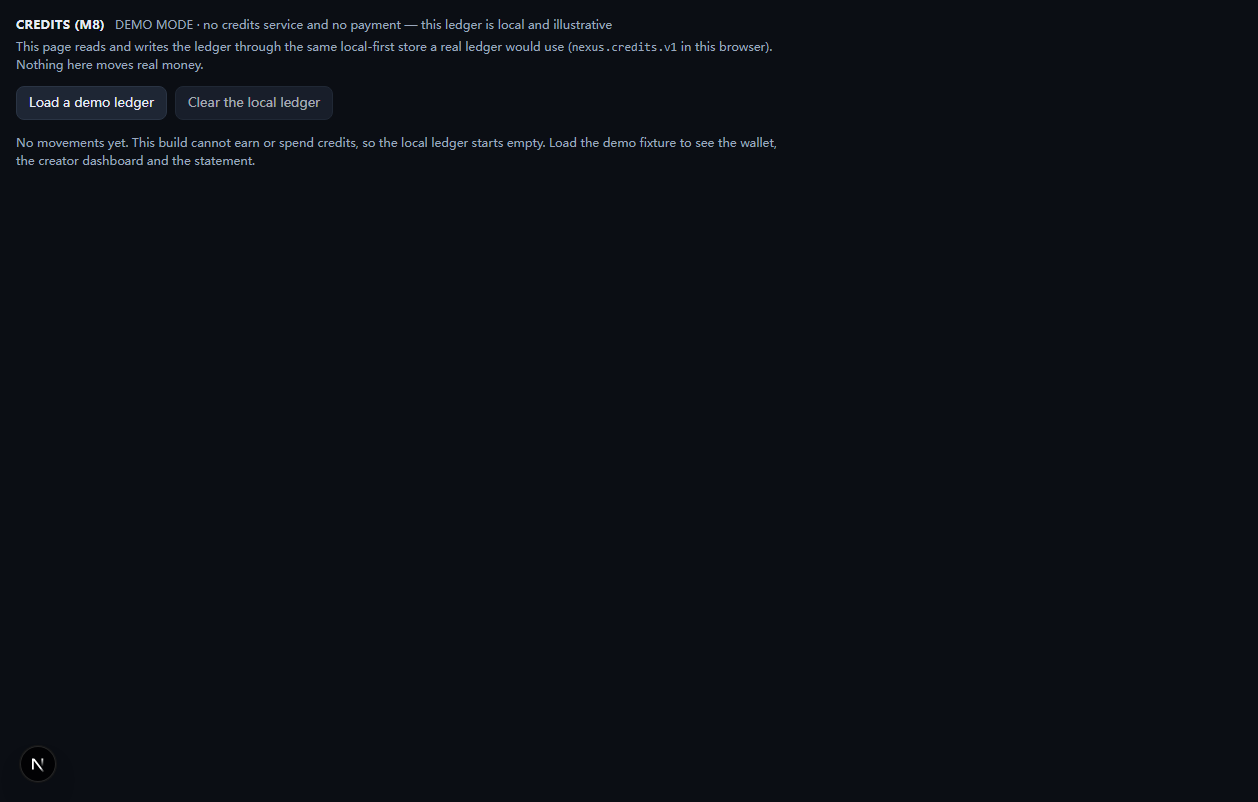
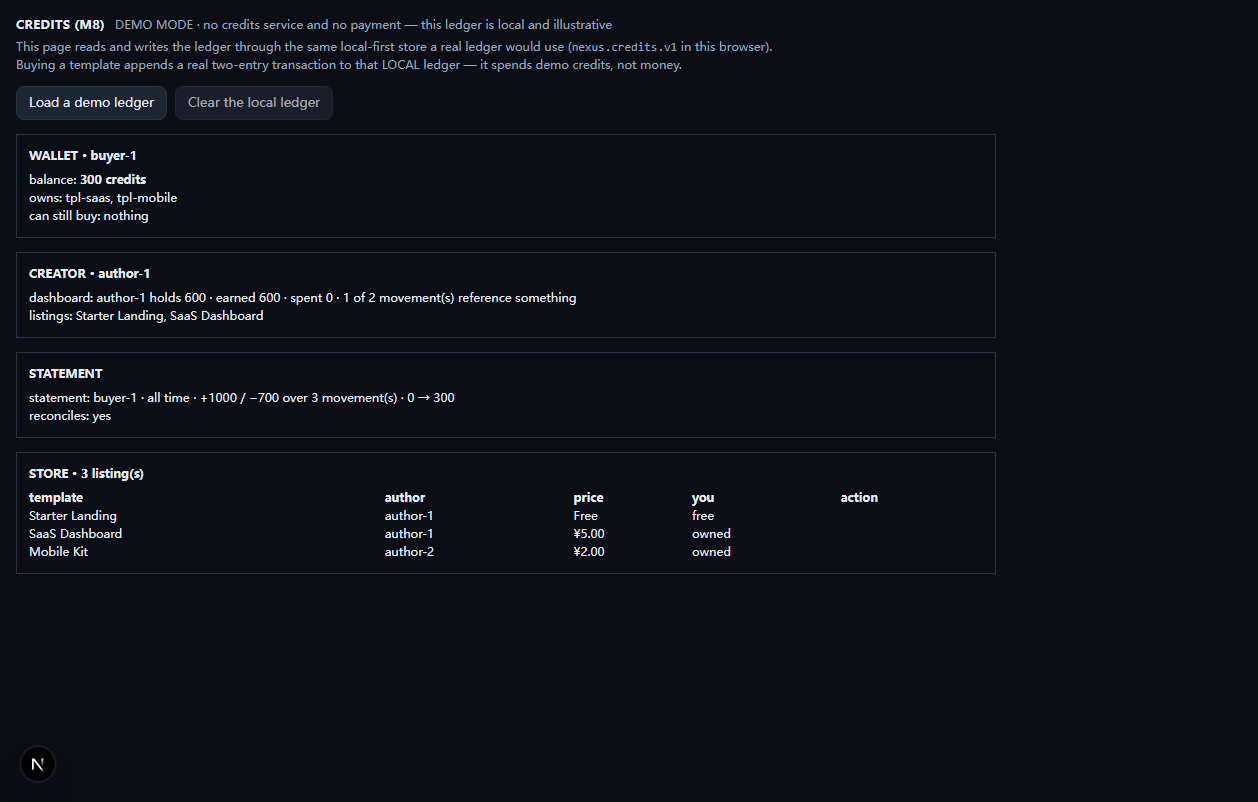
feat(m8): the /credits store becomes INTERACTIVE — a real buy on the local ledger
The surface could display a demo ledger but not act on it. Buying a template now calls the REAL marketplace: it appends the buyer's debit and the author's credit atomically, persists the result through creditsStore, and the wallet/store re-derive from the new ledger. The Buy button appears only for a paid listing the viewer does not already own and can afford — the model allows a double purchase (ADR 0019 bound), but the panel should not suggest one.

Also fixes the wallet line to say 'can still buy' (affordability MINUS owned) instead of 'affordable now', which listed an item the viewer had just bought.

Harness: 14/14 checks (was 11) — adds buy (500 -> 300, owns both, button gone) and asserts the POST-purchase state survives a reload. Screenshot retaken on the populated surface.

diff --git a/apps/studio/src/components/CreditsPanel.tsx b/apps/studio/src/components/CreditsPanel.tsx
@@ -5,8 +5,10 @@ import { buildCreatorDashboard, creatorDashboardLine } from '@/lib/creatorDashbo
 import type { CreditLedger } from '@/lib/credits';
 import { buildDemoCreditsScene } from '@/lib/creditsDemo';
 import { loadCredits, saveCredits } from '@/lib/creditsStore';
+import { purchaseTemplate } from '@/lib/marketplace';
 import { priceText, type PriceCents } from '@/lib/monetization';
 import { statementFor, statementLine, statementReconciles } from '@/lib/settlement';
+import type { TemplateListing } from '@/lib/templateCatalog';
 import { buildWalletView } from '@/lib/walletView';
 
 /**
@@ -64,7 +66,34 @@ export default function CreditsPanel() {
     }
   }, []);
 
+  /**
+   * BUY one listing: the REAL marketplace transaction on the LOCAL ledger. It appends the buyer's debit
+   * and the author's credit atomically, then persists the result through `creditsStore`. This spends
+   * DEMO credits, not money — the surface says so on its face — but the arithmetic, the atomicity and
+   * the persistence are the ones the rest of the model enforces.
+   */
+  const onBuy = useCallback((listing: TemplateListing) => {
+    if (!ledger) return;
+    const decision = purchaseTemplate(scene.catalog, ledger, {
+      templateId: listing.id,
+      buyerId: scene.viewerId,
+      // The HOST supplies the instant and the idempotency key (ADR 0010); a timestamp keeps a second
+      // purchase in a later session from colliding with this one.
+      entryId: `demo-buy-${listing.id}-${Date.now()}`,
+      at: Date.now(),
+    });
+    if (!decision.ok) { setError(decision.reason); return; }
+    const saved = saveCredits(window.localStorage, decision.ledger);
+    if (!saved.ok) { setError(saved.reason); return; }
+    setLedger(decision.ledger);
+    setError(null);
+  }, [ledger, scene]);
+
   const wallet = ledger ? buildWalletView(scene.catalog, ledger, scene.viewerId) : null;
+  // "Still to buy" = the marketplace's affordability gate MINUS what is already owned. The model
+  // deliberately lets an owned listing stay affordable (ADR 0019's bound), so the panel does the
+  // subtraction rather than inviting a second purchase of one item.
+  const stillToBuy = wallet ? wallet.affordableTemplateIds.filter((id) => !wallet.ownedTemplateIds.includes(id)) : [];
   const creator = ledger ? buildCreatorDashboard(scene.catalog, ledger, scene.creatorId) : null;
   const statement = ledger ? statementFor(ledger, scene.viewerId) : null;
   const reconciles = ledger && statement ? statementReconciles(ledger, statement) : false;
@@ -84,7 +113,8 @@ export default function CreditsPanel() {
       </div>
       <div style={{ color: 'var(--nexus-muted)', marginBottom: 12, maxWidth: 780 }}>
         This page reads and writes the ledger through the same local-first store a real ledger would use
-        (<code>nexus.credits.v1</code> in this browser). Nothing here moves real money.
+        (<code>nexus.credits.v1</code> in this browser). Buying a template appends a real two-entry
+        transaction to that LOCAL ledger — it spends demo credits, not money.
       </div>
 
       {error && (
@@ -116,7 +146,7 @@ export default function CreditsPanel() {
                 balance: <b>{wallet.balanceCents} credits</b>
               </div>
               <div>owns: {wallet.ownedTemplateIds.length ? wallet.ownedTemplateIds.join(', ') : 'nothing'}</div>
-              <div>affordable now: {wallet.affordableTemplateIds.length ? wallet.affordableTemplateIds.join(', ') : 'nothing'}</div>
+              <div>can still buy: {stillToBuy.length ? stillToBuy.join(', ') : 'nothing'}</div>
             </section>
           )}
 
@@ -145,6 +175,7 @@ export default function CreditsPanel() {
                   <th align="left">author</th>
                   <th align="left">price</th>
                   <th align="left">you</th>
+                  <th align="left">action</th>
                 </tr>
               </thead>
               <tbody>
@@ -152,12 +183,29 @@ export default function CreditsPanel() {
                   const owned = wallet?.ownedTemplateIds.includes(listing.id) ?? false;
                   const affordable = wallet?.affordableTemplateIds.includes(listing.id) ?? false;
                   const state = owned ? 'owned' : affordable ? 'affordable' : listing.priceCents === 0 ? 'free' : 'out of reach';
+                  // A listing is buyable only when it is a PAID listing the viewer does not already own
+                  // and can afford. Offering "Buy" on something already owned would invite a second
+                  // purchase of one item — the model allows it, but the panel should not suggest it.
+                  const buyable = !owned && affordable && listing.priceCents > 0;
                   return (
                     <tr key={listing.id} data-credits-listing={listing.id}>
                       <td>{listing.title}</td>
                       <td>{listing.authorId}</td>
                       <td>{priceText(listing.priceCents as PriceCents, 'CNY')}</td>
                       <td>{state}</td>
+                      <td>
+                        {buyable ? (
+                          <button
+                            type="button"
+                            className="btn"
+                            data-credits-buy={listing.id}
+                            onClick={() => onBuy(listing)}
+                            style={{ fontSize: 10, padding: '1px 6px' }}
+                          >
+                            Buy
+                          </button>
+                        ) : null}
+                      </td>
                     </tr>
                   );
                 })}

diff --git a/docs/evidence/studio/README.md b/docs/evidence/studio/README.md
@@ -15,7 +15,7 @@ npm run verify:assets-surface         # the Assets surface's headless proof (M3 
 npm run verify:assets                 # 29/29 Assets-surface assertions in a real browser (needs the Studio on :3210)
 npm run verify:credits                # the M8 credits sub-system's headless proof (§1–§7: ledger, catalog, atomic marketplace, reconciling dashboard/statement, remix fork, derived wallet)
 npm run verify:mutation               # the M8 mutation probe: 12 deliberate breaks, each must be KILLED by the suite (temp copies; real source untouched)
-npm run verify:credits-surface        # 11/11 checks on the /credits page in a real browser — load, wallet/creator/statement, store, reload-persistence, clear (needs the Studio on :3210)
+npm run verify:credits-surface        # 14/14 checks on the /credits page in a real browser — load, wallet/creator/statement, store, BUY, reload-persistence, clear (needs the Studio on :3210)
 ```
 
 Counts below are from `NODE_OPTIONS= npx vitest run --root <pkg> --no-file-parallelism`
